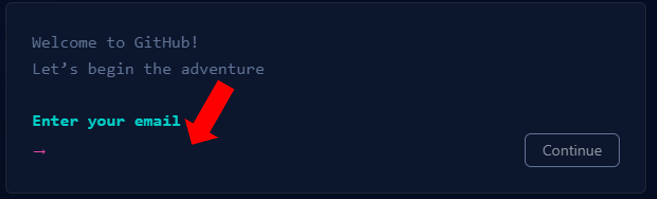
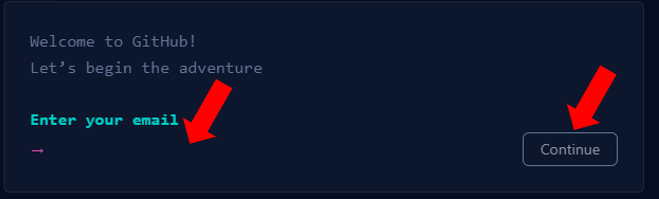
Lab 8 Update

diff --git a/8-cicd_codepipeline/README.md b/8-cicd_codepipeline/README.md
@@ -12,6 +12,6 @@ In this module, we will build a CI/CD pipeline using AWS CodePipeline. The CI/CD
 
     ![role-1](./images/role-1.png)
 
-3. Enter your e-mail
+3. Enter your e-mail and select "Contine"
 
     ![role-2](./images/role-2.png)
